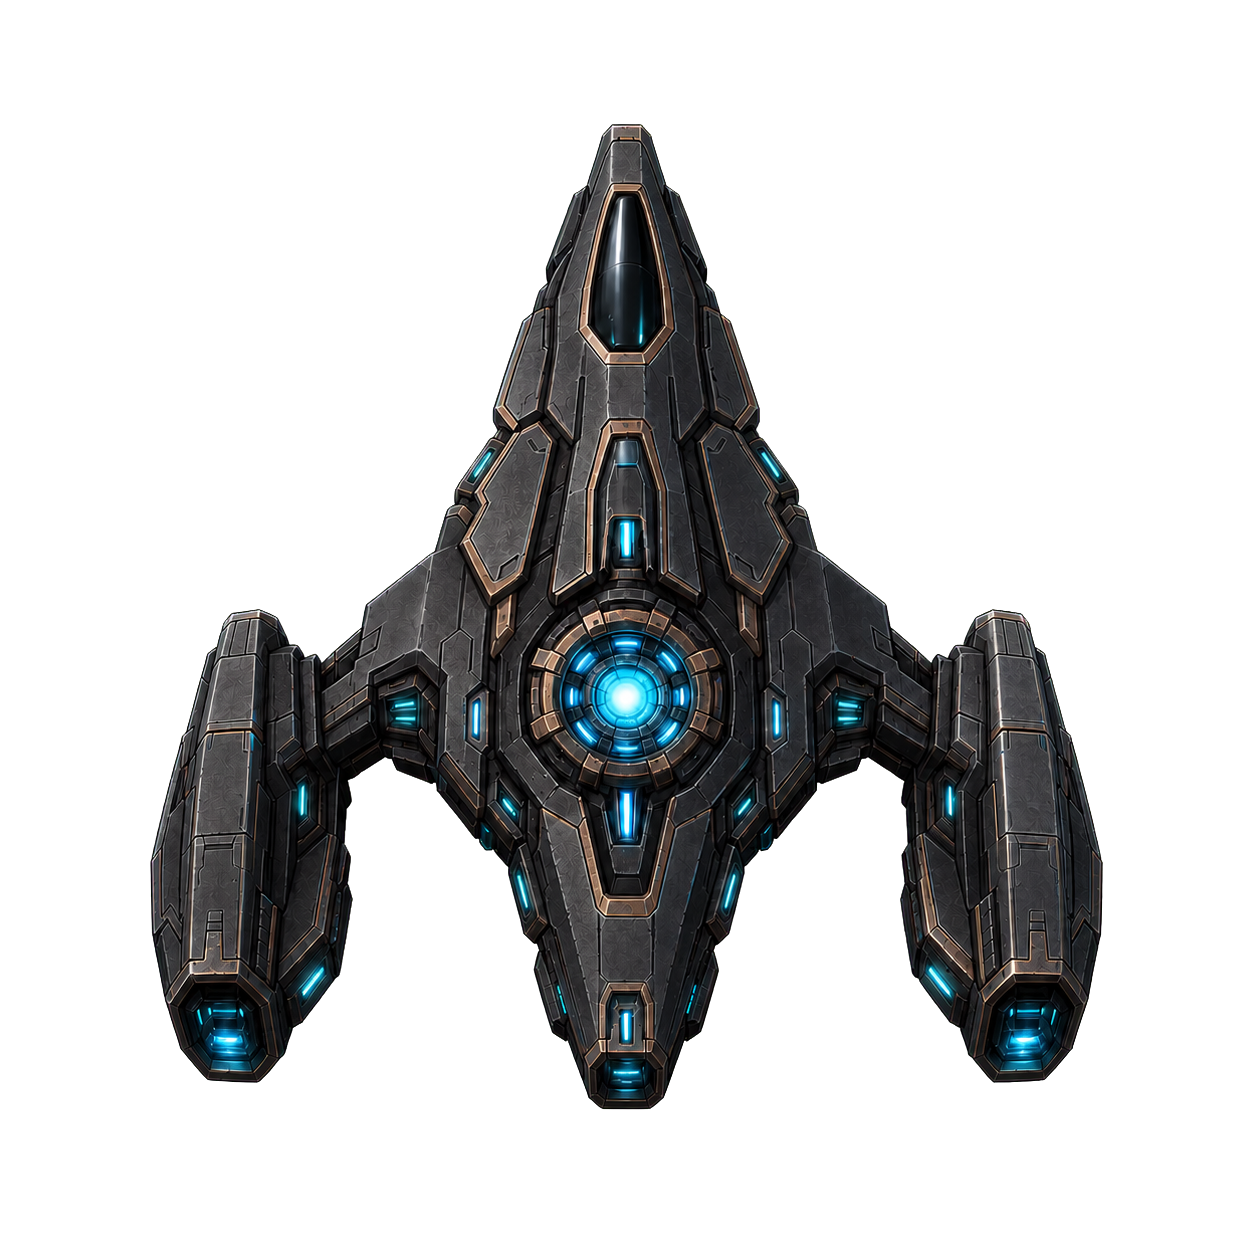
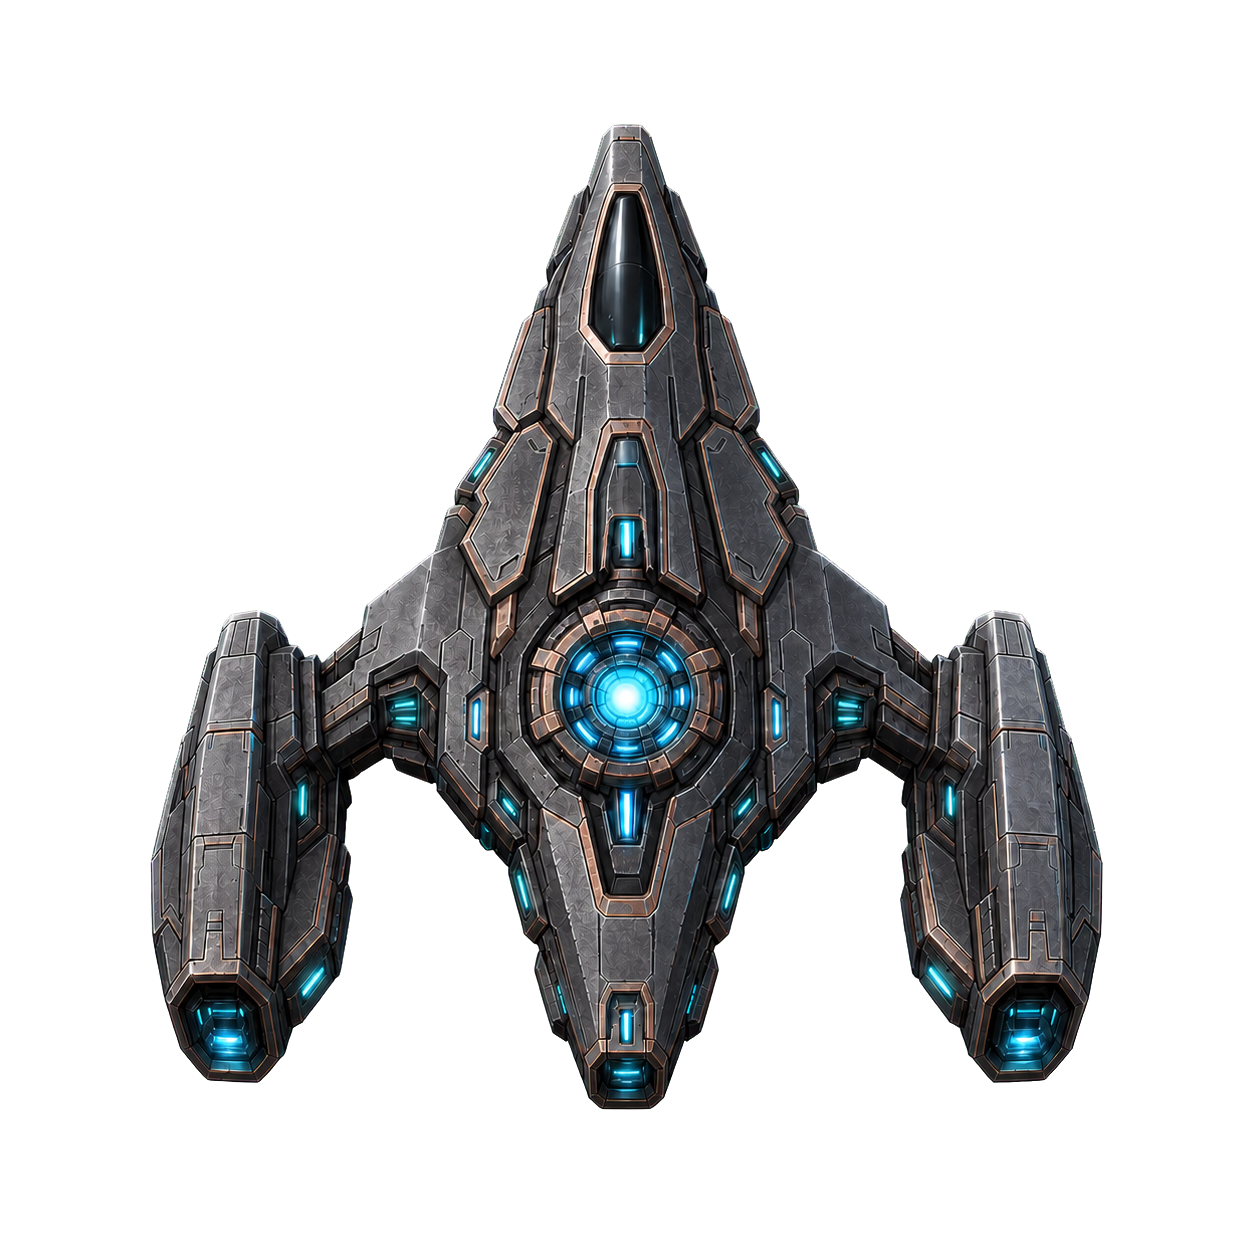
Match Pioneer Destroyer colours

Changed region(s): [[0.0933, 0.0933, 0.9019, 0.8708]]

diff --git a/js/01-core-state.js b/js/01-core-state.js
@@ -411,10 +411,10 @@ const SHIP_ASSET_MANIFEST = Object.freeze({
     small: "assets/ships/pioneer-moth/pioneer-moth-small.webp"
   }),
   zeusExplorer: Object.freeze({
-    master: "assets/ships/pioneer-destroyer/pioneer-destroyer-master.webp?v=20260719",
-    large: "assets/ships/pioneer-destroyer/pioneer-destroyer-large.webp?v=20260719",
-    medium: "assets/ships/pioneer-destroyer/pioneer-destroyer-medium.webp?v=20260719",
-    small: "assets/ships/pioneer-destroyer/pioneer-destroyer-small.webp?v=20260719"
+    master: "assets/ships/pioneer-destroyer/pioneer-destroyer-master.webp?v=20260719-colour-match",
+    large: "assets/ships/pioneer-destroyer/pioneer-destroyer-large.webp?v=20260719-colour-match",
+    medium: "assets/ships/pioneer-destroyer/pioneer-destroyer-medium.webp?v=20260719-colour-match",
+    small: "assets/ships/pioneer-destroyer/pioneer-destroyer-small.webp?v=20260719-colour-match"
   }),
   hephaestusTrader: Object.freeze({
     master: "assets/ships/champa-carrier/champa-carrier-master.webp",

diff --git a/index.html b/index.html
@@ -785,7 +785,7 @@
   <script src="js/rules/movementRules.js"></script>
   <script src="js/services/saveService.js"></script>
   <script src="js/network/multiplayerClient.js?v=20260716-bounty-complete"></script>
-  <script src="js/01-core-state.js?v=20260719-pioneer-refinement"></script>
+  <script src="js/01-core-state.js?v=20260719-destroyer-colour-match"></script>
   <script src="js/02-account-navigation.js?v=20260718-pioneer-line"></script>
   <script src="js/03-hud-space-map.js?v=20260716-bounty-complete"></script>
   <script src="js/network/multiplayerOverlay.js?v=20260718-pioneer-line"></script>
